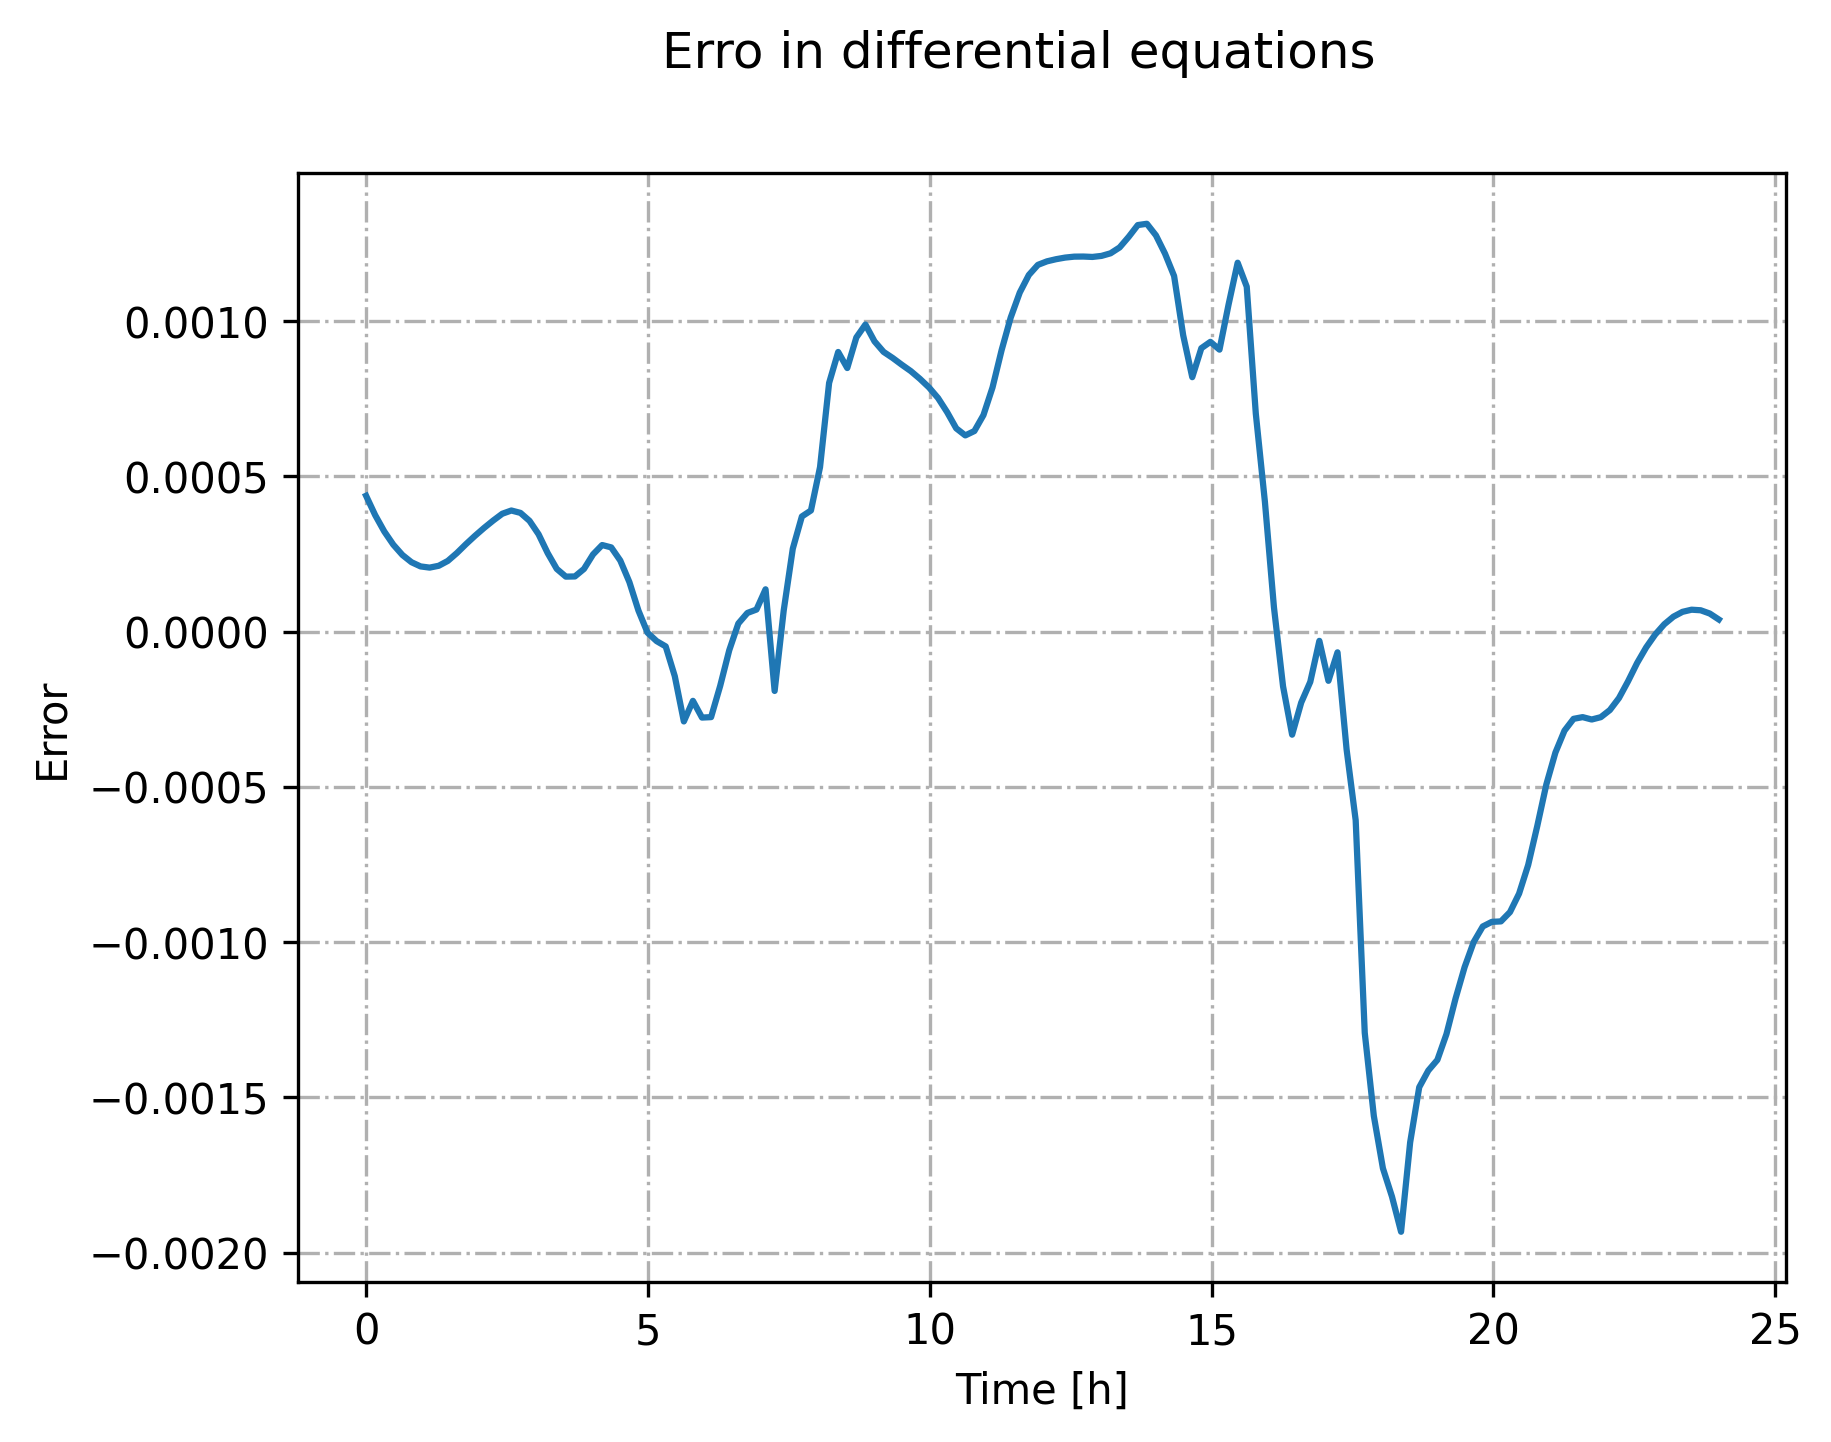
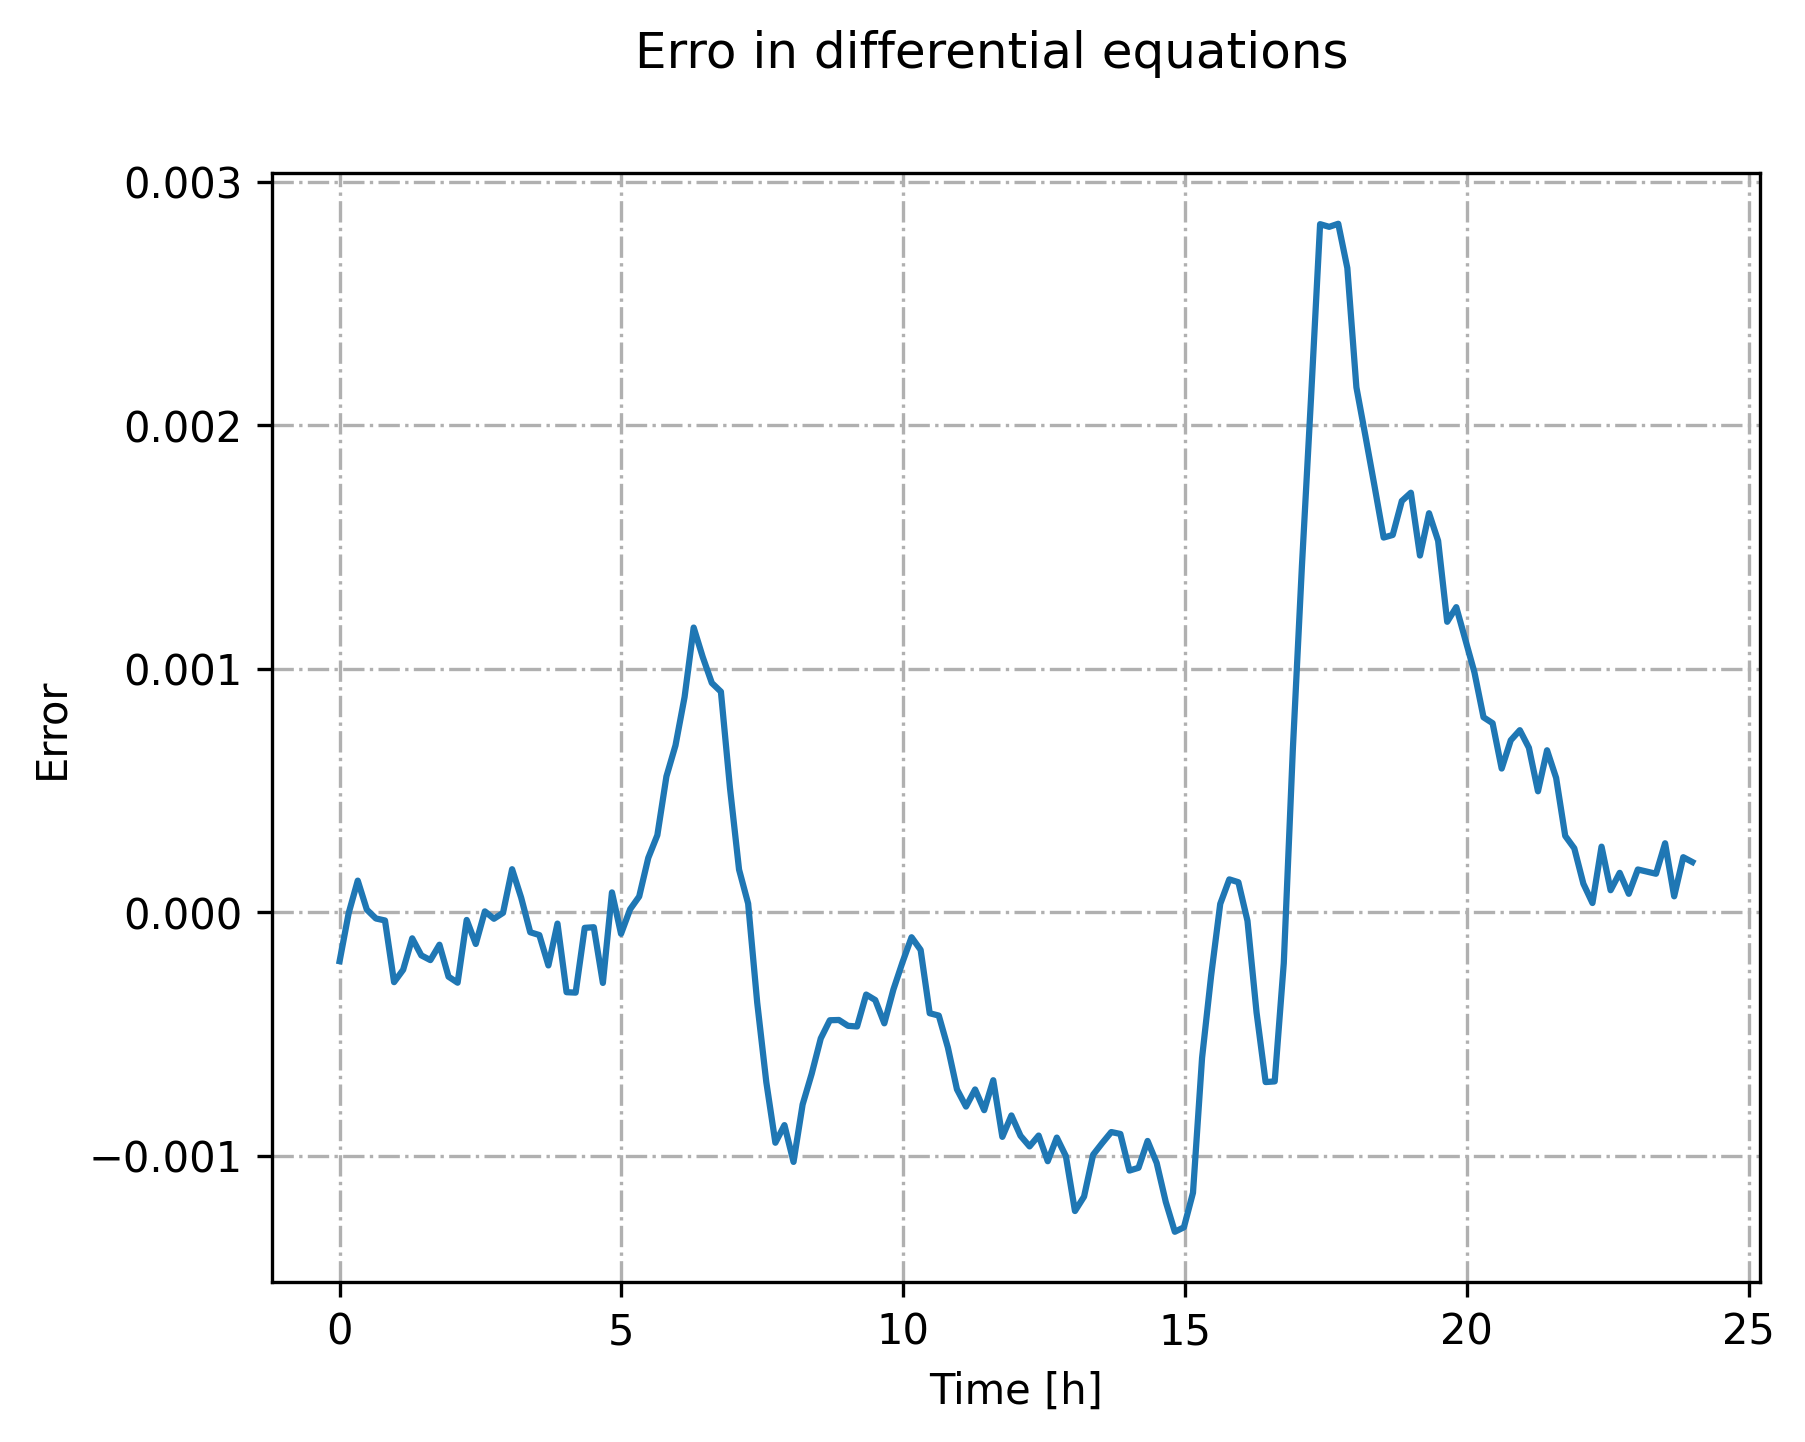
Fix in error evaluation

diff --git a/ocp-1-hs-collocation.py b/ocp-1-hs-collocation.py
@@ -153,7 +153,7 @@ f_x_opt_dot = f_x_opt.derivative()
 
 t = np.linspace(0, Tf, num=10*N, endpoint=True)
 
-error = f_x_opt_dot(t) - f(t, f_x_opt(t), f_u_opt(t))[0]
+error = f_x_opt_dot(t) - f(f_x_opt(t), f_u_opt(t), t)[0]
 
 # Plot error
 fig2 = plt.figure(2)

diff --git a/ocp-1-trapezoid-collocation.py b/ocp-1-trapezoid-collocation.py
@@ -147,7 +147,7 @@ f_x_opt_dot = f_x_opt.derivative()
 
 t = np.linspace(0, Tf, num=10*N, endpoint=True)
 
-error = f_x_opt_dot(t) - f(t, f_x_opt(t), f_u_opt(t))[0]
+error = f_x_opt_dot(t) - f(f_x_opt(t), f_u_opt(t), t)[0]
 
 # Plot error
 fig2 = plt.figure(2)
